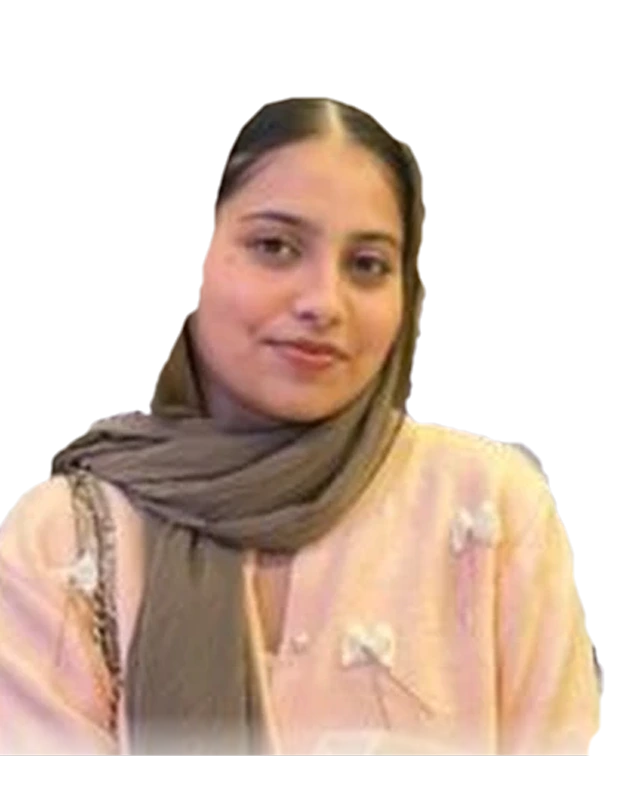
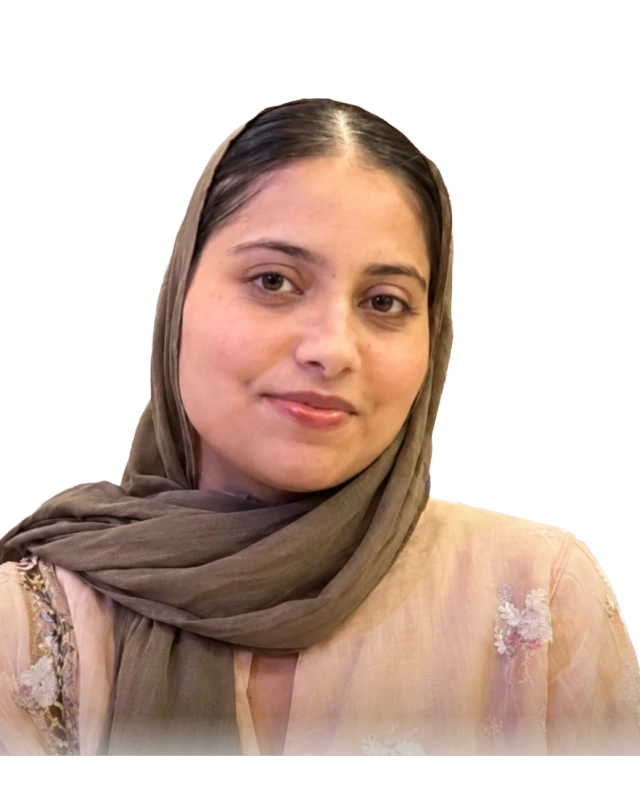
New portraits (5), clearer specialist finder questions, Our Team menu names by city

diff --git a/tulasi-web/web/src/components/finder/SpecialistFinder.tsx b/tulasi-web/web/src/components/finder/SpecialistFinder.tsx
@@ -11,7 +11,7 @@ import { AnimatePresence, motion, useReducedMotion } from "motion/react";
 import { useCallback, useMemo, useRef, useState } from "react";
 import { ApiError, matchDoctors, type MatchInput, type MatchResult } from "@/lib/api";
 import { track } from "@/lib/analytics";
-import { CONCERNS, WHO, type Who } from "@/lib/care";
+import { WHO, type Who } from "@/lib/care";
 import { OpenChatButton } from "@/components/chat/OpenChatButton";
 import { Arrow, Icon } from "@/components/ui/primitives";
 
@@ -19,12 +19,44 @@ export type FinderDoctor = { slug: string; name: string; photo: string | null; d
 
 const norm = (n: string) => n.toLowerCase().replace(/\(.*?\)|\b(dr|ms|mr|mrs)\.?\s/g, "").replace(/[^a-z ]/g, "").replace(/\s+/g, " ").trim();
 
+type Option = { id: string; label: string; hint: string };
+// What can be on someone's mind, in plain words. `id` is the specialty tag the doctor directory uses.
+const O: Record<string, Option> = {
+  anxiety: { id: "anxiety", label: "Anxiety or panic", hint: "Constant worry, panic attacks, fears" },
+  depression: { id: "depression", label: "Low mood or depression", hint: "Sadness, no interest in things, hopelessness" },
+  stress: { id: "stress", label: "Stress, burnout or poor sleep", hint: "Pressure at work or home, trouble sleeping" },
+  ptsd: { id: "ptsd", label: "Trauma or PTSD", hint: "After a frightening or painful event" },
+  ocd: { id: "ocd", label: "OCD", hint: "Repeating thoughts, checking or rituals" },
+  bipolar: { id: "bipolar", label: "Mood swings (bipolar)", hint: "Very high and very low phases" },
+  psychosis: { id: "schizophrenia", label: "Hearing or seeing things, or paranoia", hint: "Psychosis, schizophrenia, withdrawal" },
+  addiction: { id: "addiction", label: "Alcohol or drug use", hint: "Drinking or drug use that is hard to stop" },
+  gaming: { id: "addiction", label: "Gaming or screen addiction", hint: "Hours online, cannot cut down" },
+  relationship: { id: "relationship", label: "Relationships or marriage", hint: "Conflict, distance, family or couple issues" },
+  sexual: { id: "sexual_disorder", label: "Sexual health", hint: "Private concerns, handled discreetly" },
+  personality: { id: "personality_disorder", label: "Anger or unstable relationships", hint: "Intense emotions, personality difficulties" },
+  adhd: { id: "adhd", label: "ADHD or attention problems", hint: "Restless, distracted, impulsive" },
+  autism: { id: "autism", label: "Autism or development", hint: "Speech, social or learning differences" },
+  child: { id: "child_adolescent", label: "Behaviour, school or emotions", hint: "Tantrums, anger, learning, withdrawn" },
+  examStress: { id: "stress", label: "Exam or school stress", hint: "Pressure, fear of failing, bullying" },
+  dementia: { id: "geriatric_dementia", label: "Memory loss or dementia", hint: "Forgetting, confusion, getting lost" },
+  elderSleep: { id: "stress", label: "Poor sleep or restlessness", hint: "Not sleeping, agitation, worry" },
+};
+const OPTIONS: Record<Who, Option[]> = {
+  self: [O.anxiety, O.depression, O.stress, O.ptsd, O.ocd, O.bipolar, O.relationship, O.addiction, O.gaming, O.adhd, O.sexual, O.personality, O.psychosis],
+  child: [O.anxiety, O.depression, O.child, O.adhd, O.autism, O.examStress, O.gaming, O.ocd, O.ptsd, O.addiction],
+  elder: [O.dementia, O.depression, O.anxiety, O.elderSleep, O.psychosis, O.bipolar, O.addiction],
+  loved: [O.depression, O.anxiety, O.addiction, O.bipolar, O.psychosis, O.stress, O.ptsd, O.ocd, O.relationship, O.gaming, O.personality],
+};
+
 const SUPPORT: { id: MatchInput["support"]; label: string; hint: string }[] = [
   { id: "therapy", label: "Talking therapy", hint: "Regular sessions with a psychologist or counsellor" },
   { id: "medication", label: "A psychiatrist", hint: "Assessment, diagnosis and medication if needed" },
   { id: "unsure", label: "I’m not sure yet", hint: "We’ll suggest a good place to start" },
 ];
-const WHO_HINT: Record<Who, string> = { self: "I’m looking for help for myself", child: "Under 18", elder: "Memory, mood or behaviour changes with age", loved: "A partner, sibling or friend" };
+// Not a doctor match: admission and rehab begin with a short assessment by our team.
+const RESIDENTIAL = { label: "Hospital stay or rehabilitation", hint: "Admission, de-addiction or residential care" };
+const WHO_HINT: Record<Who, string> = { self: "I’m looking for help for myself", child: "Under 18, including school-age children", elder: "Memory, mood or behaviour changes with age", loved: "A partner, sibling or friend" };
+const STEP_HELP = ["Choose the closest. It only shapes the suggestions, and you can start again at any time.", "Pick what matters most right now. If several apply, start with the one that worries you most."];
 const STEP_TITLE = ["Who is this for?", "What’s been on your mind?", "What kind of help are you thinking about?"];
 
 const optionClass =
@@ -35,19 +67,16 @@ export function SpecialistFinder({ doctors, phone }: { doctors: FinderDoctor[]; 
   const [who, setWho] = useState<Who | null>(null);
   const [concern, setConcern] = useState<{ id: string; label: string } | null>(null);
   const [crisis, setCrisis] = useState(false);
+  const [residential, setResidential] = useState(false);
   const [result, setResult] = useState<MatchResult | null>(null);
   const [error, setError] = useState<string | null>(null);
   const [loading, setLoading] = useState(false);
   const [slow, setSlow] = useState(false);
 
   const bySite = useMemo(() => new Map(doctors.map((d) => [norm(d.name), d])), [doctors]);
-  const step = result || error || crisis ? 3 : concern ? 2 : who ? 1 : 0;
+  const step = result || error || crisis || residential ? 3 : concern ? 2 : who ? 1 : 0;
 
-  const concernOptions = useMemo(() => {
-    if (!who) return [];
-    const seen = new Set<string>();
-    return CONCERNS.filter((c) => c.who.includes(who)).filter((c) => (seen.has(c.label) ? false : (seen.add(c.label), true)));
-  }, [who]);
+  const concernOptions = useMemo(() => (who ? OPTIONS[who] : []), [who]);
 
   // Each new question heading takes focus as it appears (after the exit animation), so
   // keyboard and screen-reader users follow along. The very first heading does not.
@@ -84,7 +113,8 @@ export function SpecialistFinder({ doctors, phone }: { doctors: FinderDoctor[]; 
     if (result || error) {
       setResult(null);
       setError(null);
-    } else if (crisis) setCrisis(false);
+    } else if (residential) setResidential(false);
+    else if (crisis) setCrisis(false);
     else if (concern) setConcern(null);
     else setWho(null);
   }
@@ -94,16 +124,17 @@ export function SpecialistFinder({ doctors, phone }: { doctors: FinderDoctor[]; 
     setResult(null);
     setError(null);
     setCrisis(false);
+    setResidential(false);
   }
 
   const motionProps = reduce ? {} : { initial: { opacity: 0, y: 10 }, animate: { opacity: 1, y: 0 }, exit: { opacity: 0, y: -6 }, transition: { duration: 0.28, ease: [0.22, 1, 0.36, 1] as const } };
-  const title = result || error ? "Here’s where we’d start" : crisis ? "Please talk to someone now" : STEP_TITLE[step];
+  const title = result || error ? "Here’s where we’d start" : crisis ? "Please talk to someone now" : residential ? "Our team will guide you" : STEP_TITLE[step];
 
   return (
     <div className="mx-auto w-full max-w-2xl">
       <div className="flex items-center justify-between gap-4">
         <p className="text-sm font-medium text-ink-soft" aria-live="polite">
-          {result || error ? "Your suggestions" : crisis ? "Support right now" : `Step ${step + 1} of 3`}
+          {result || error ? "Your suggestions" : crisis ? "Support right now" : residential ? "Next step" : `Step ${step + 1} of 3`}
         </p>
         {step > 0 && !loading && (
           <button type="button" onClick={back} className="inline-flex min-h-10 items-center gap-1.5 rounded-full px-3 text-sm font-semibold text-brand-700 hover:bg-brand-50">
@@ -116,7 +147,7 @@ export function SpecialistFinder({ doctors, phone }: { doctors: FinderDoctor[]; 
       </div>
 
       <AnimatePresence mode="wait" initial={false}>
-        <motion.div key={`${step}-${loading}-${!!result}-${!!error}-${crisis}`} {...motionProps} className="mt-6">
+        <motion.div key={`${step}-${loading}-${!!result}-${!!error}-${crisis}-${residential}`} {...motionProps} className="mt-6">
           <h2 ref={focusHeading} tabIndex={-1} className="font-display text-[1.5rem] leading-tight font-semibold tracking-[-0.015em] text-ink outline-none sm:text-[1.75rem]">
             {loading ? "Finding the right people…" : title}
           </h2>
@@ -129,6 +160,7 @@ export function SpecialistFinder({ doctors, phone }: { doctors: FinderDoctor[]; 
             </div>
           )}
 
+          {!loading && !who && <p className="mt-2 text-ink-soft">{STEP_HELP[0]}</p>}
           {!loading && !who && (
             <ul className="mt-5 space-y-3">
               {WHO.map((w) => (
@@ -147,15 +179,19 @@ export function SpecialistFinder({ doctors, phone }: { doctors: FinderDoctor[]; 
 
           {!loading && who && !concern && !crisis && !result && !error && (
             <>
+              <p className="mt-2 text-ink-soft">{STEP_HELP[1]}</p>
               <ul className="mt-5 grid gap-3 sm:grid-cols-2">
                 {concernOptions.map((c) => (
                   <li key={c.label}>
-                    <button type="button" className={optionClass} onClick={() => setConcern({ id: c.specialty, label: c.label })}>
-                      <span className="min-w-0 flex-1 font-semibold text-ink">{c.label}</span>
+                    <button type="button" className={optionClass} onClick={() => setConcern({ id: c.id, label: c.label })}>
+                      <span className="min-w-0 flex-1">
+                        <span className="block font-semibold text-ink">{c.label}</span>
+                        <span className="block text-sm text-ink-soft">{c.hint}</span>
+                      </span>
                     </button>
                   </li>
                 ))}
-                <li><button type="button" className={optionClass} onClick={() => setConcern({ id: "unsure", label: "Not sure yet" })}><span className="min-w-0 flex-1 font-semibold text-ink">I’m not sure yet</span></button></li>
+                <li><button type="button" className={optionClass} onClick={() => setConcern({ id: "unsure", label: "Not sure yet" })}><span className="min-w-0 flex-1"><span className="block font-semibold text-ink">I’m not sure yet</span><span className="block text-sm text-ink-soft">We’ll suggest a place to start</span></span></button></li>
               </ul>
               <button type="button" onClick={() => setCrisis(true)} className="mt-5 inline-flex min-h-11 items-center gap-2 rounded-full px-1 text-sm font-semibold text-alert-700 underline underline-offset-4 hover:text-alert-600">
                 <Icon name="heart" className="size-4" /> I’m having thoughts of harming myself
@@ -178,8 +214,31 @@ export function SpecialistFinder({ doctors, phone }: { doctors: FinderDoctor[]; 
                     </button>
                   </li>
                 ))}
+                <li>
+                  <button type="button" className={optionClass} onClick={() => { setResidential(true); track("finder_residential"); }}>
+                    <span className="min-w-0 flex-1">
+                      <span className="block font-semibold text-ink">{RESIDENTIAL.label}</span>
+                      <span className="block text-sm text-ink-soft">{RESIDENTIAL.hint}</span>
+                    </span>
+                    <Icon name="arrow" className="size-4 shrink-0 text-brand-600 opacity-60 transition-transform group-hover:translate-x-0.5 group-hover:opacity-100" />
+                  </button>
+                </li>
               </ul>
             </>
+          )}
+
+          {!loading && residential && (
+            <div className="mt-4">
+              <p className="leading-relaxed text-ink-soft">Admission and rehabilitation start with a short assessment, so our team can recommend the right level of care. Call us and we’ll arrange it, or read how it works first.</p>
+              <div className="mt-5 flex flex-col gap-3 sm:flex-row">
+                <a href={phone.href} className="inline-flex min-h-12 items-center justify-center gap-2 rounded-full bg-brand-600 px-6 font-semibold text-white hover:bg-brand-700"><Icon name="phone" className="size-4" /> Call {phone.display}</a>
+                <Link href="/rehabilitation-centre/" className="inline-flex min-h-12 items-center justify-center gap-2 rounded-full bg-white px-6 font-semibold text-ink shadow-[inset_0_0_0_1px_var(--color-line)] hover:bg-brand-50">How inpatient care works <Arrow /></Link>
+              </div>
+              <div className="mt-6 flex flex-wrap items-center gap-x-5 gap-y-2 text-sm">
+                <Link href="/book-appointment/" className="min-h-10 font-semibold text-brand-700 underline decoration-line underline-offset-4 hover:text-brand-900">Or book a consultation first</Link>
+                <button type="button" onClick={restart} className="min-h-10 font-semibold text-ink-soft underline decoration-line underline-offset-4 hover:text-ink">Start again</button>
+              </div>
+            </div>
           )}
 
           {!loading && crisis && (
@@ -257,7 +316,7 @@ export function SpecialistFinder({ doctors, phone }: { doctors: FinderDoctor[]; 
         </motion.div>
       </AnimatePresence>
 
-      {!result && !error && !crisis && !loading && (
+      {!result && !error && !crisis && !residential && !loading && (
         <p className={clsx("mt-8 flex items-start gap-2 text-sm text-ink-soft")}>
           <Icon name="shield" className="mt-0.5 size-4 shrink-0 text-sage-600" /> Private: we don’t ask for your name or contact details, and your answers aren’t stored. This is a guide, not a diagnosis.
         </p>

diff --git a/tulasi-web/web/src/components/layout/MegaMenus.tsx b/tulasi-web/web/src/components/layout/MegaMenus.tsx
@@ -207,6 +207,14 @@ function ConditionsPanel(p: PanelProps) {
 
 // ───────────────────────── Our Team ─────────────────────────
 
+/** "Best Psychiatrist in Delhi for Therapy ..." becomes "Psychiatrist in Delhi": role + place, nothing else. */
+export function roleInPlace(label: string) {
+  const m = label.match(/^(?:best\s+)?((?:child\s+)?(?:psychiatrist|psychologist|counsellor))\s+(?:in\s+([A-Za-z]+)|near\s+me)/i);
+  if (!m) return label;
+  const role = m[1].charAt(0).toUpperCase() + m[1].slice(1).toLowerCase();
+  return m[2] ? `${role} in ${m[2]}` : `${role} near me`;
+}
+
 function TeamPanel(p: PanelProps) {
   const groups = p.item.groups.filter((g) => g.links.length);
   return (
@@ -245,7 +253,7 @@ function TeamPanel(p: PanelProps) {
             {g.label && <Heading>{g.label}s by city</Heading>}
             <ul>
               {g.links.map((l) => (
-                <li key={l.href ?? l.label}><Link href={l.href ?? "#"} className={quietLink}>{l.label}</Link></li>
+                <li key={l.href ?? l.label}><Link href={l.href ?? "#"} className={quietLink}>{roleInPlace(l.label)}</Link></li>
               ))}
             </ul>
           </div>

diff --git a/tulasi-web/web/src/components/layout/Header.tsx b/tulasi-web/web/src/components/layout/Header.tsx
@@ -10,7 +10,7 @@ import type { Site } from "@/lib/content";
 import { CONCERNS, whatsappLink } from "@/lib/care";
 import { Icon } from "@/components/ui/primitives";
 import { track } from "@/lib/analytics";
-import { NavPanel, type TeamTeaser } from "./MegaMenus";
+import { NavPanel, roleInPlace, type TeamTeaser } from "./MegaMenus";
 
 export type { TeamTeaser };
 type Menu = Site["menu"];
@@ -215,7 +215,7 @@ function MobileMenu({ open, onClose, items, phone, pathname, logo }: { open: boo
                         <ul>
                           {g.links.map((l) => (
                             <li key={l.href ?? l.label}>
-                              <Link href={l.href ?? "#"} onClick={onClose} className="block rounded-lg py-2.5 text-[0.9375rem] leading-snug text-ink-soft hover:text-brand-700">{l.label}</Link>
+                              <Link href={l.href ?? "#"} onClick={onClose} className="block rounded-lg py-2.5 text-[0.9375rem] leading-snug text-ink-soft hover:text-brand-700">{roleInPlace(l.label)}</Link>
                             </li>
                           ))}
                         </ul>

diff --git a/tulasi-web/web/src/lib/analytics.ts b/tulasi-web/web/src/lib/analytics.ts
@@ -18,7 +18,7 @@ const ADS_LABELS: Record<string, string | undefined> = {
   whatsapp_click: process.env.NEXT_PUBLIC_ADS_LABEL_WHATSAPP,
 };
 
-export type TrackEvent = "booking_complete" | "booking_start" | "call_click" | "whatsapp_click" | "chat_open" | "ebook_download" | "finder_complete" | "screener_complete";
+export type TrackEvent = "booking_complete" | "booking_start" | "call_click" | "whatsapp_click" | "chat_open" | "ebook_download" | "finder_complete" | "finder_residential" | "screener_complete";
 
 export function track(event: TrackEvent, params: Record<string, string | number> = {}) {
   if (typeof window === "undefined" || !window.gtag) return;

diff --git a/tulasi-web/scraper/12-uniform-portraits.py b/tulasi-web/scraper/12-uniform-portraits.py
@@ -56,6 +56,11 @@ SOURCES = {
     "dr-suravi-das": f"{DOC}/Dr Suravi.png",
 }
 
+# Fifth batch: cards cropped from screenshots (pastel backdrop already, rounded corners and name label trimmed)
+CARDS5 = ['dr-ratnarakshit-ingole', 'ms-titiksha-agnihotri', 'dr-ram-chander-jiloha', 'dr-pavan-kumar-pardal', 'ms-husna-zahid-hussain']
+for _s in CARDS5:
+    SOURCES[_s] = f"{SUP2}/{_s}.png"
+
 TW, TH = 640, 800  # 4:5
 cascades = [
     cv2.CascadeClassifier(cv2.data.haarcascades + "haarcascade_frontalface_default.xml"),
@@ -80,7 +85,7 @@ CLEAN = {"dr-gorav-gupta": (0.62, 40, 1.0)}
 # Turban + black beard + black shirt on a dark backdrop: the face detector is off-centre here, so the
 # face box is given by hand (full-resolution x, y, w, h) and near-black pixels are kept only where they
 # are beard or shirt. Everything else that dark above the shoulders is backdrop.
-FACE_BOX = {"dr-ichpreet-singh": (365, 540, 330, 460), "ms-ira-gupta": (158, 150, 136, 150)}
+FACE_BOX = {"dr-ram-chander-jiloha": (340, 320, 350, 380), "dr-ichpreet-singh": (365, 540, 330, 460), "ms-ira-gupta": (158, 150, 136, 150)}
 KEEP_DARK = {"dr-ichpreet-singh": {"ellipse": (530, 760, 175, 195), "rect": (430, 820, 650, 1536), "ymax": 850}}
 
 
@@ -275,8 +280,8 @@ def portrait(img, alpha, face, slug=None):
     return out
 
 
-SUPPLIED = {"dr-kritika-soni", "ms-angshruta-mahanta", "inderjeet-singh", "dr-anu-yadav", "ms-ira-gupta", "ms-deliaka-ghanghass"}
-PREPARED = {"ms-ira-gupta", "ms-deliaka-ghanghass"}  # already cropped out of a screenshot of two cards: no corner trim or sparkle
+SUPPLIED = set(CARDS5) | {"dr-kritika-soni", "ms-angshruta-mahanta", "inderjeet-singh", "dr-anu-yadav", "ms-ira-gupta", "ms-deliaka-ghanghass"}
+PREPARED = set(CARDS5) | {"ms-ira-gupta", "ms-deliaka-ghanghass"}  # already cropped out of a screenshot of two cards: no corner trim or sparkle
 
 
 def clean_supplied(img, slug):
